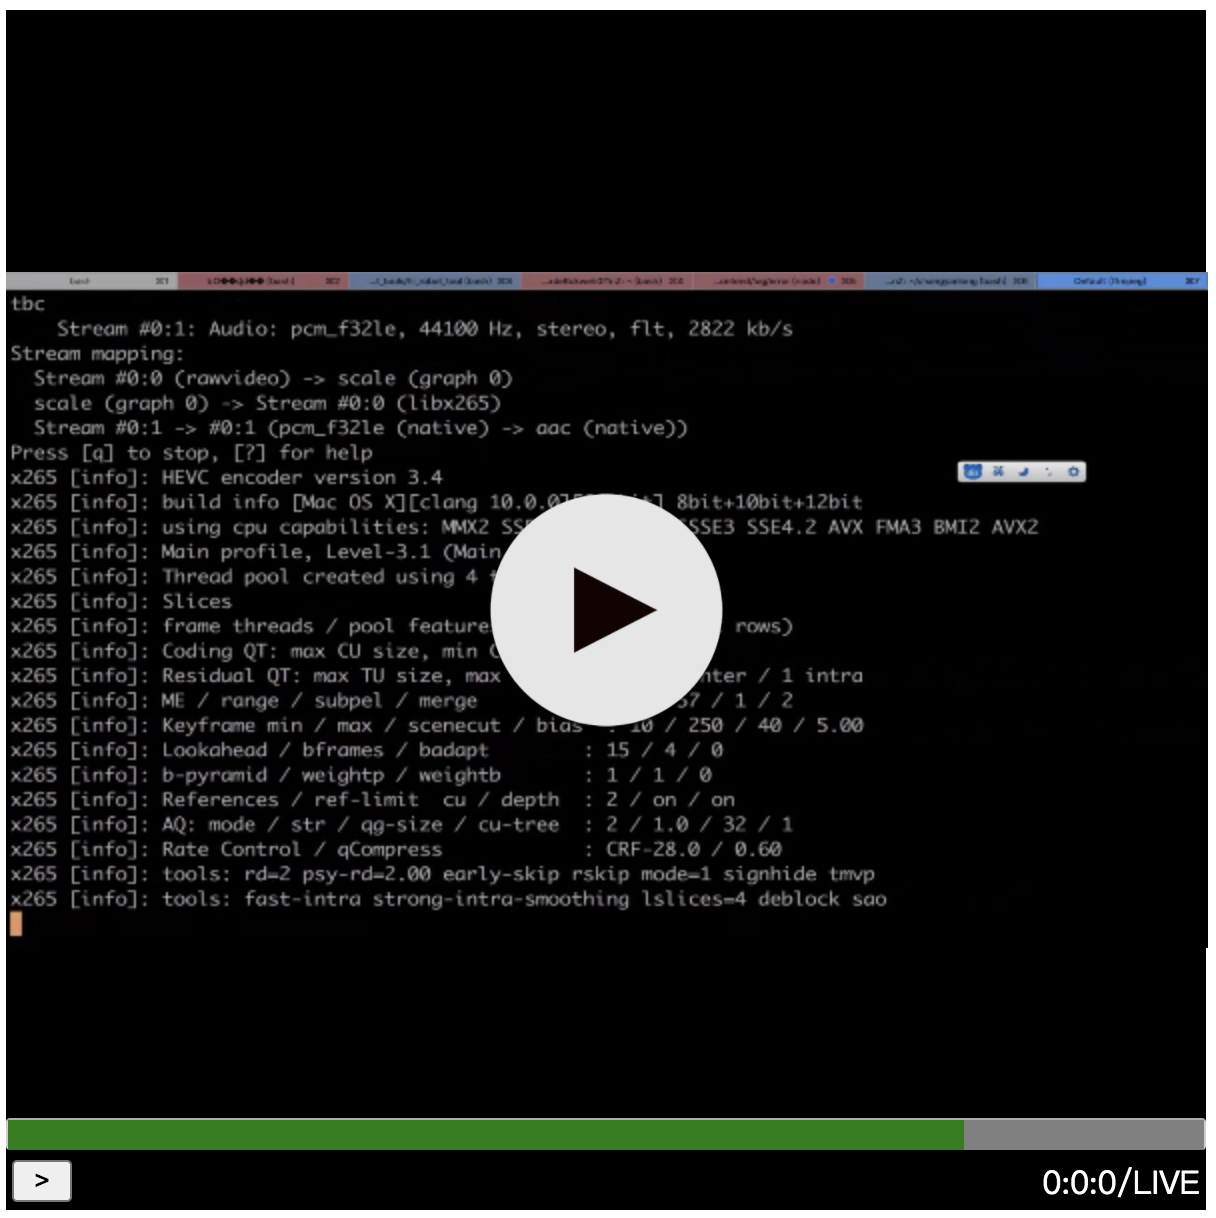
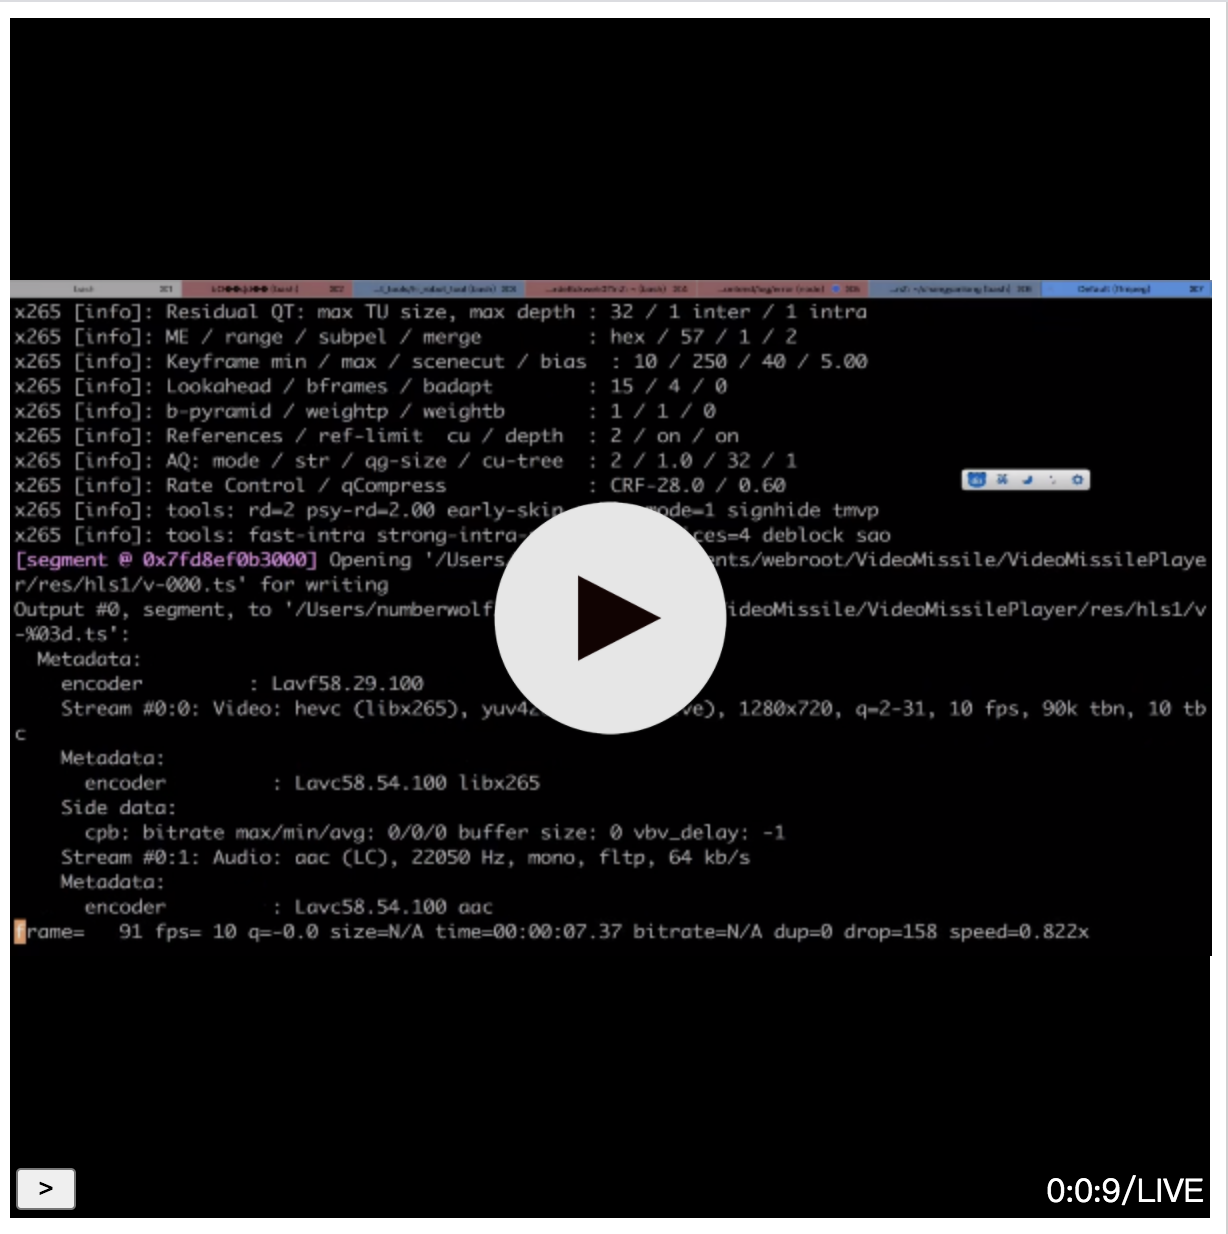
update

Changed region(s): [[0.0, 0.0, 1.0, 0.9984], [0.4688, 0.468, 0.5, 0.5304]]

diff --git a/index.html b/index.html
@@ -16,13 +16,13 @@
         var type = "mp4";
         var url = "/res/video.mp4";
 
-        var type = "ts";
-        var url = "/res/veilside2.ts";
+        // var type = "ts";
+        // var url = "/res/veilside2.ts";
         // var url = "/res/hls/v-000.ts"
 
-        var type = "hls";
+        // var type = "hls";
         // var url = "/res/hls/veilsideLive.m3u8";
-        var url = "/res/hls/veilside.m3u8";
+        // var url = "/res/hls/veilside.m3u8";
         // var url = "/res/hls1/test.m3u8";
         // var url = "http://ivi.bupt.edu.cn/hls/cctv1hd.m3u8";
 

diff --git a/h265webjs.js b/h265webjs.js
@@ -317,6 +317,11 @@ class H265webjsModule {
             }
         });
 
+        if (this.hlsConf.hlsType == def.PLAYER_IN_TYPE_M3U8_LIVE) {
+            _this.progress.hidden = true;
+        } else {
+            _this.progress.hidden = false;
+        }
         /**
          * SEEK Progress
          */

diff --git a/dist/h265webjs.js b/dist/h265webjs.js
@@ -2304,6 +2304,9 @@ class H265webjsModule {
             }
         });
 
+        if (this.hlsConf.hlsType == def.PLAYER_IN_TYPE_M3U8_LIVE) {
+            _this.progress.hidden = true;
+        }
         /**
          * SEEK Progress
          */

diff --git a/dist/play.js b/dist/play.js
@@ -2304,6 +2304,9 @@ class H265webjsModule {
             }
         });
 
+        if (this.hlsConf.hlsType == def.PLAYER_IN_TYPE_M3U8_LIVE) {
+            _this.progress.hidden = true;
+        }
         /**
          * SEEK Progress
          */
